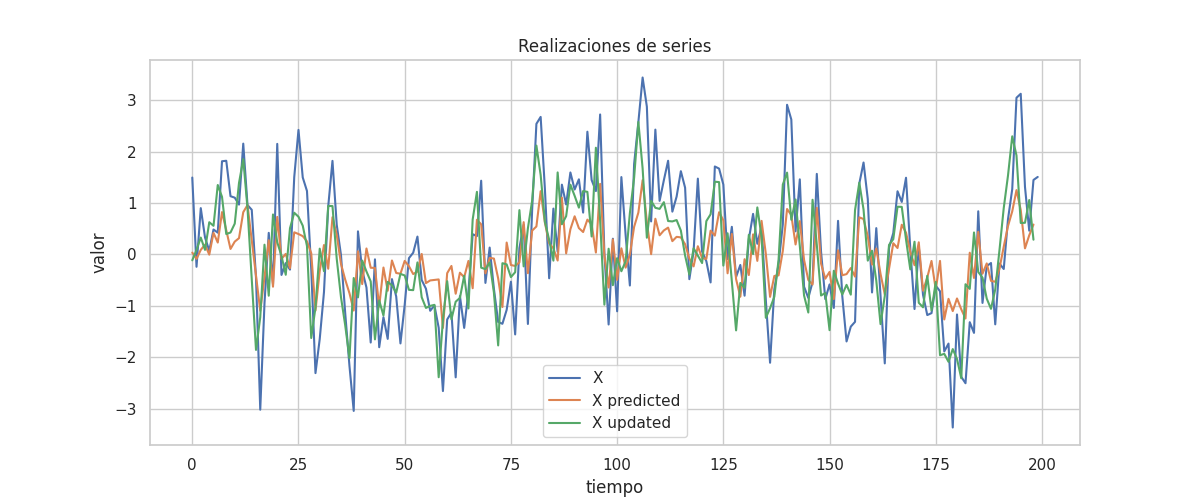
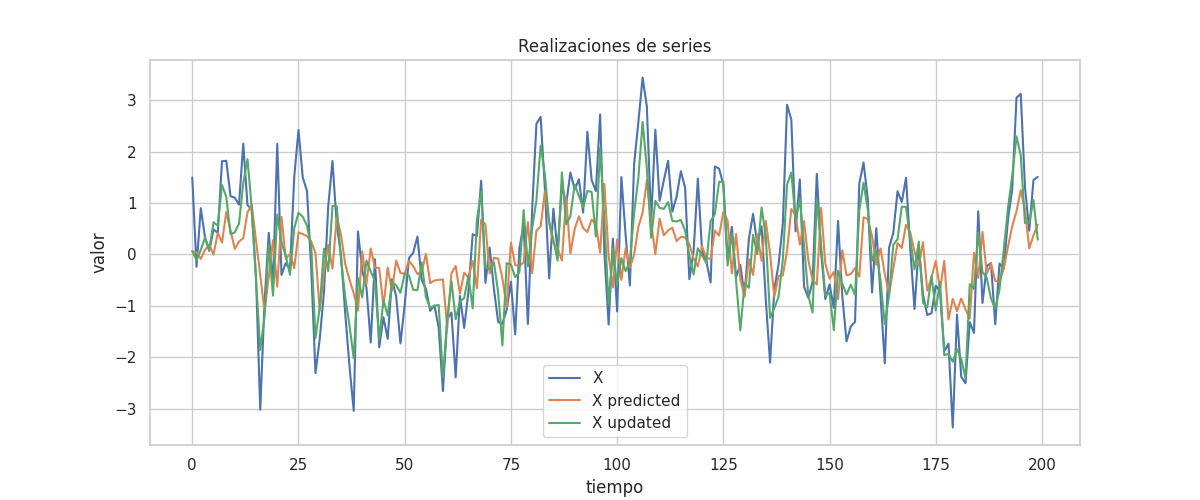
update KF shift predictions

Changed region(s): [[0.1542, 0.24, 0.8633, 0.75]]

diff --git a/unidad_1/tarea_1/filtros/filtro_kalman.py b/unidad_1/tarea_1/filtros/filtro_kalman.py
@@ -1,13 +1,13 @@
 import numpy as np
 
 class KalmanFilter1D:
-    def __init__(self,x0,P0,F_model,Q_model,H_model,sigma):
+    def __init__(self,y0,P0,F_model,Q_model,H_model,sigma):
         """Inicializa la clase con listas vacías de observación, predicción y corrección
         
         Argumentos
         ----------
         
-            x0: float
+            y0: float
                 estado inicial
                 
             P0: float
@@ -26,10 +26,10 @@ class KalmanFilter1D:
                 varianza del ruido de medición
         
         """
-        self._x_observed = [x0]
+        self._x_observed = [y0]
         # self.x_true = []
-        self._x_predicted = []
-        self._x_updated = []
+        self._x_predicted = [y0]
+        self._x_updated = [y0]
 
         self._variances_predicted = []
         self._variances_updated = [P0]

diff --git a/unidad_1/tarea_1/tarea_1_kalman.py b/unidad_1/tarea_1/tarea_1_kalman.py
@@ -4,9 +4,9 @@ from filtros.filtro_kalman import KalmanFilter1D
 
 # parámetros de este código
 np.random.seed(0)
-save_plots = False  # si guardar o no las figuras
+save_plots = True  # si guardar o no las figuras
 img_dir = "unidad_1/tarea_1/informe/img"  # directorio en caso de guardar las figuras
-display_plots = True  # si se muestran o no las figuras (pop-up), no funciona al mismo tiempo que save_plots
+display_plots = False  # si se muestran o no las figuras (pop-up), no funciona al mismo tiempo que save_plots
 
 # Simulación de las series
 
